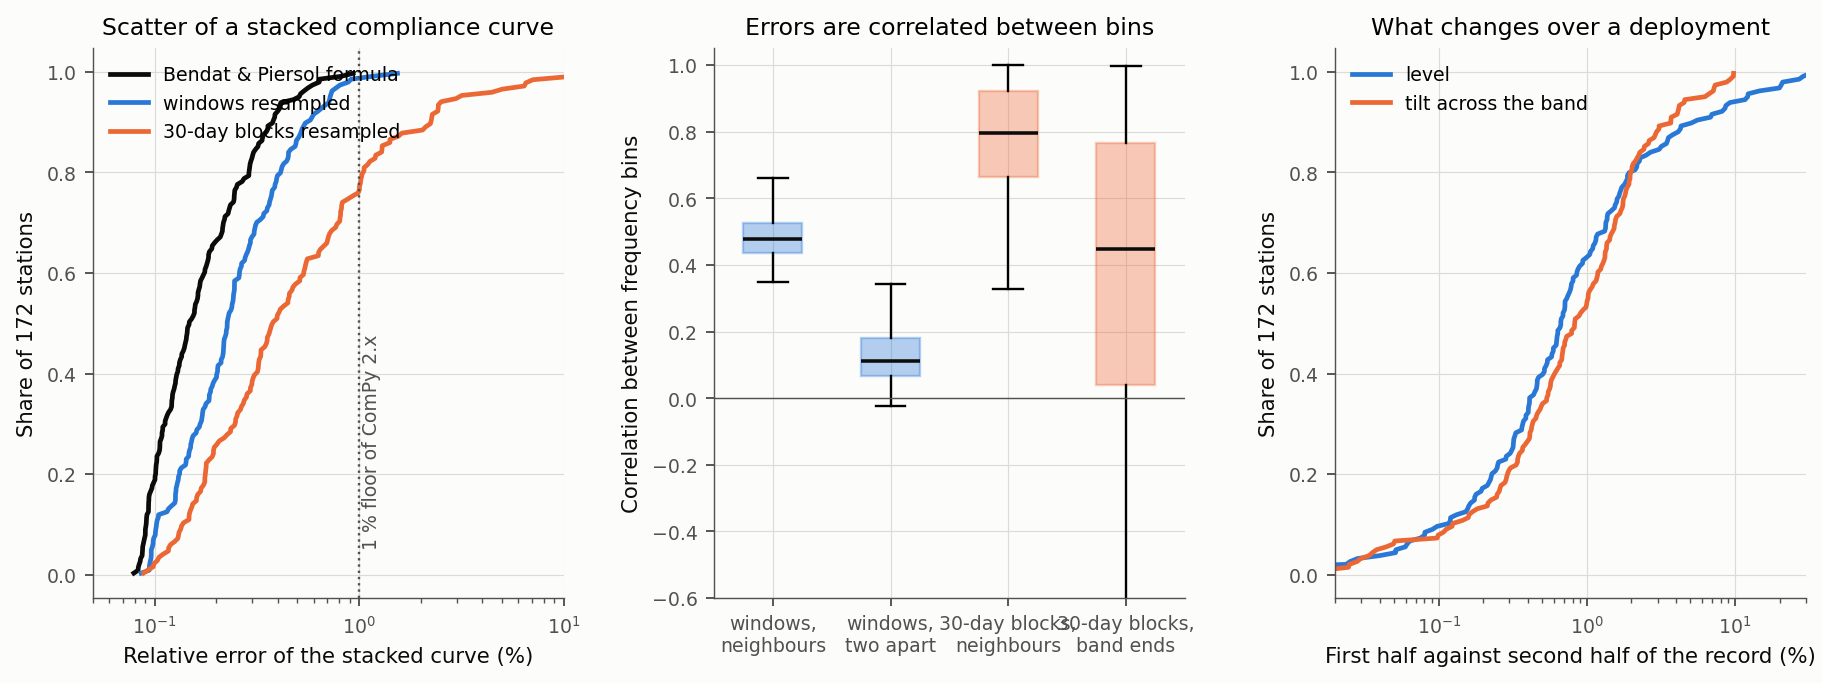
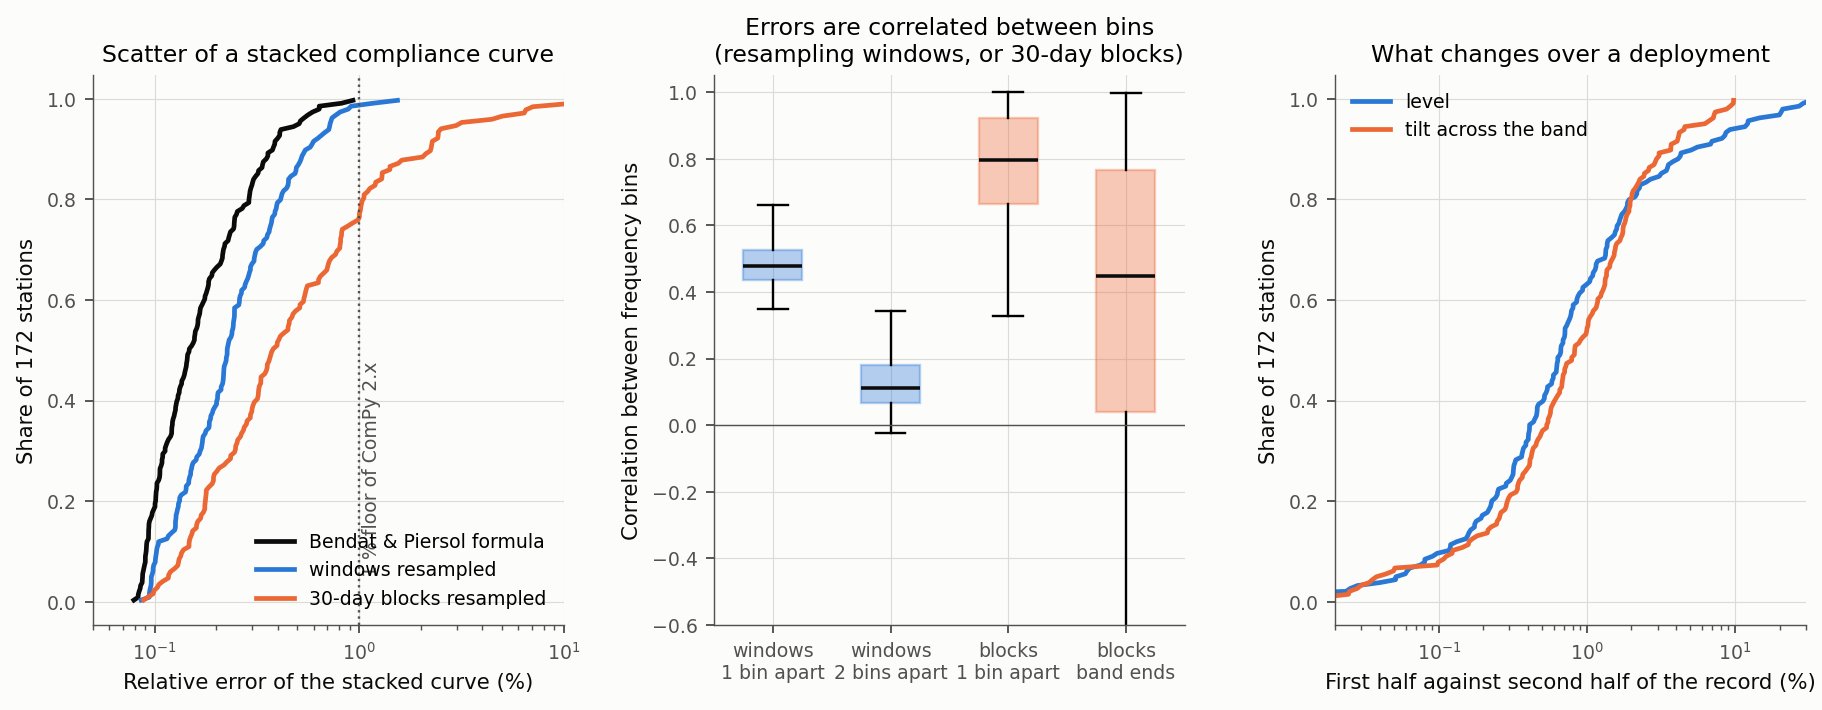
Report draft (sections 1-6), figure fixes

diff --git a/docs/inversion_overhaul_2026-11/scripts/g01_figures_method.py b/docs/inversion_overhaul_2026-11/scripts/g01_figures_method.py
@@ -93,11 +93,11 @@ def fig2():
     ax.text(1.03, 0.05, "1 % floor of ComPy 2.x", rotation=90, color=MUTED, fontsize=8, va="bottom")
     ax.set(xscale="log", xlim=(0.05, 10), xlabel="Relative error of the stacked curve (%)",
            ylabel="Share of 172 stations", title="Scatter of a stacked compliance curve")
-    ax.legend(loc="upper left")
+    ax.legend(loc="lower right")
     ax = axes[1]
     lags = ("iid_corr_adjacent", "iid_corr_lag2", "b30_corr_adjacent", "b30_corr_ends")
-    labels = ("windows,\nneighbours", "windows,\ntwo apart", "30-day blocks,\nneighbours",
-              "30-day blocks,\nband ends")
+    labels = ("windows\n1 bin apart", "windows\n2 bins apart", "blocks\n1 bin apart",
+              "blocks\nband ends")
     data = [col(n) for n in lags]
     parts = ax.boxplot(data, widths=0.5, patch_artist=True, showfliers=False,
                        medianprops=dict(color=INK, lw=1.5))
@@ -105,7 +105,8 @@ def fig2():
         patch.set(facecolor=color, alpha=0.35, edgecolor=color)
     ax.axhline(0, color=MUTED, lw=0.6)
     ax.set_xticks(range(1, 5), labels, fontsize=8)
-    ax.set(ylabel="Correlation between frequency bins", title="Errors are correlated between bins", ylim=(-0.6, 1.05))
+    ax.set(ylabel="Correlation between frequency bins",
+           title="Errors are correlated between bins\n(resampling windows, or 30-day blocks)", ylim=(-0.6, 1.05))
     ax = axes[2]
     for name, label, color in (("half_level", "level", BLUE), ("half_tilt", "tilt across the band", ORANGE)):
         v = np.sort(100 * np.abs(col(name)))
@@ -148,7 +149,7 @@ def fig3():
     x = np.linspace(-30, 30, 300)
     ax.plot(x, len(lr) * 2.5 * np.exp(-0.5 * (x / (5 * np.sqrt(2))) ** 2) / (5 * np.sqrt(2) * np.sqrt(2 * np.pi)),
             color=ORANGE, lw=2, label="two gains with 5 % error each")
-    ax.set(xlabel="Rayleigh-wave gain against microseism gain (%)", ylabel="Stations",
+    ax.set(xlabel="Rayleigh gain against microseism gain (%)", ylabel="Stations",
            title=f"Two calibrations of {len(lr)} gauges")
     ax.legend(loc="upper left")
     fig.savefig(OUT / "fig03_covariance_gain.png", dpi=170, bbox_inches="tight")

diff --git a/docs/inversion_overhaul_2026-11/REPORT.md b/docs/inversion_overhaul_2026-11/REPORT.md
@@ -1,0 +1,122 @@
+# ComPy inversion overhaul, November 2026
+
+Audit and rebuild of the shear-velocity inversion of ComPy, against the primary literature and against tests that do not use any earlier ComPy result. Branch `inversion-overhaul`, proposed as ComPy 3.0.0. Brief: [PROMPT.md](PROMPT.md). Working notes: [NOTES.md](NOTES.md).
+
+Every statement below is marked **[test]** (verified by a script in `scripts/`, output in `~/Desktop/ComPy/14_inversion_overhaul/`), **[source]** (taken from a publication that was read) or **[inferred]**.
+
+## 1. Summary
+
+**What was wrong in the inversion of ComPy 2.3 to 2.8**
+
+1. **The error model.** Each frequency bin carried an independent 1 % error. The real scatter of a stacked compliance curve is 0.2 to 0.4 % and strongly correlated between bins; what is uncertain is the level of the curve (pressure gain) and its slope (pressure response at low frequency). The old model was five times too loose on the shape of the curve, which explains chi-square/N near 0.4, and too strict on its slope, which is what carries the information about the deep crust. [test]
+2. **The prior.** Layers had a flat prior with a penalty on second differences. In the layers the data do not see, that penalty continues the shallow gradient and drives Vs to its bounds. This is the "deep layers press against their limits" of the earlier reports. [test]
+3. **Vp and density.** Compliance measures stiffness, not Vs. One free Vp/Vs for all crustal layers settled near 2.1, which gives lower-crust Vp above 8.5 km/s and, with the density rule tied to Vp, a density of 3.3 g/cc. Both lower Vs: by about 10 % at 2 to 5 km. [test]
+4. **Sediment.** A soft layer much thinner than the wavelength adds compliance through its P modulus, `k h / (rho Vp^2)`, whatever its Vs. The model fixed sediment density at 2.0 g/cc (soft sediment is nearer 1.6) and its Vp, and limited thickness to 1 km. Sediment thickness, and through it deep Vs, inherited those choices. [test]
+5. **Fixed Moho** from a 1-degree model, and **uniform gain bounds** of 5 %, where two independent calibrations of the same gauges differ by more than that in one case out of six. [test]
+6. **Band.** At shelf stations the estimate collapses above the frequency where the pressure signal still reaches the seafloor; the coherence gate does not detect it, and the saved curve was also cut at 40 mHz. Shelf station 7D.J09B never fitted for these reasons. [test]
+
+**What was right.** The forward model (agreement with an independent 50-digit solution to 4e-7), the gravity corrections of the data (re-derived; the 2025 paper states their sign and size wrongly, the code is right), the sampler (acceptance rules read and tested; a ComPy 2.8 run repeats draw for draw), and the H1 estimator. [test]
+
+**What changed.** A new default inversion, `compy.inversion.auto`, with errors measured from each station's own windows, a proper prior about a reference model, free Moho depth, Vp and density uncertain, sediment with its P modulus, a Gaussian gain prior, automatic band limits, sampling that repeats until it converges, and a result that marks the depths the data resolve. One command: `compy-invert`. Method: [../INVERSION.md](../INVERSION.md).
+
+**Is it calibrated?** On synthetic data drawn from the prior, on four station types, the 50 % and 90 % intervals contain the truth at those rates (section 5). When the true Earth is one the model cannot represent, intervals stay honest below 700 m and Vs in the top 300 m follows the reference, not the data; the result flags those depths as unresolved. [test]
+
+**What the data resolve.** At a deep-ocean station: the thickness of soft sediment, and broad averages of Vs between about 0.7 and 6 km. Not the top few hundred metres of basement, not thin layers, and nothing about Vp/Vs or density. [test]
+
+RESULTS_SUMMARY_PLACEHOLDER
+
+## 2. Literature
+
+| Source | Read | What was taken |
+|---|---|---|
+| Crawford (1994), PhD thesis, UCSD | ch. 2 and 6 (ch. 3 and 4 are placeholders in the PDF) | Half-space compliance, eq. 2.19; sensitivity ratios, eqs 2.20 to 2.22; Vp fixed from refraction; start Vs = Vp/1.87; density of Carlson & Raskin (1984), eq. 6.1; Occam inversion; sensitivity near lambda/6 |
+| Crawford (2004), GJI 157 | in full | Definition, eq. 1; `eta = (lambda + 2 mu)/(2 mu (lambda + mu))`, eq. 5; "density has almost no effect"; depth between lambda/2pi and lambda/4; error formula, eq. 8; minimum-structure and Bayesian inversions; full equations of motion always solved |
+| Zha (2014), PhD thesis, Columbia (holds Zha et al. 2014 and Zha & Webb 2016) | ch. 2 and 4 | Gravity correction as Crawford et al. (1998) eq. 6 without an errant 2 pi, sign of its effect; DRAM; sediment 0 to 2000 m with fixed Vs(z) (Ruan) and Vp(z) (Hamilton), density 2.0; crust layers 100 m doubling; Vp/Vs 1.85; density 1.85 + 0.165 Vp; mantle 3.8 to 4.2 km/s; Moho from refraction |
+| Hulme et al. (2003, 2005); Crawford et al. (2002); Crawford (2005) | sections | 2-D effects, as a limit |
+| Mosher et al. (2021), GJI 227 | sections | Another parameterization (Bernstein polynomials, constant Vp and density) |
+| Janiszewski et al. (2019), GJI 217 | one statement | Sediment density 2.0 "following Ruan et al. (2014)" |
+| Tsekhmistrenko et al. (2026), Seismica 5(2) | sections | Instruments of network 8J (for the 8J paper) |
+| Aminian et al. (2025), GJI 242; Aminian (2024) thesis | earlier audits | The method under test |
+
+**Not obtained** (publisher or host refused automated access, or closed): Crawford et al. (1991, 1998); Ruan et al. (2014); Bell et al. (2015); Doran & Laske (2019); Zheng et al. (2024); Brocher (2005), Hamilton (1976, 1979), Carlson & Raskin (1984), Christensen & Shaw (1970) in the original. Consequences: the Ruan sediment relation is not used; Brocher's relations are taken from a published implementation (R package hydrogeo) and marked so in the code; the 1998 gravity formula is taken from Zha's quotation and re-derived (section 3.1). Please check these against the originals.
+
+## 3. Physics checks
+
+### 3.1 Gravity terms of the data
+
+With z up, a pressure p pushes the seafloor down, `u = -xi p`. A seismometer reads specific force, `a = d2u/dt2 - dg`. A wave crest attracts the mass upward, `dg = a_w = (2 pi G / g) cosh(kH) exp(-kH) p`; moving down by |u| raises gravity by the free-air gradient, `dg = (2g/R) u`. Hence `a/p = (omega^2 + 2g/R) xi - a_w/p`, and
+
+`eta = k (omega^2 |Z/P| + a_w/p) / (omega^2 + 2g/R)`,
+
+which is what `compy.compliance.gravity_corrected_compliance` computes. The correction raises compliance, as Zha et al. (2014) say. At YV.RR52 it is 18 % of compliance at 7.3 mHz and 6 % at 17 mHz. The 2025 paper says the attraction "can increase the measured compliance by up to 5 per cent": sign and size are wrong in the text, not in the code. The attraction of the displaced seafloor itself is a fifth of the free-air term, which is 0.3 % at 5 mHz: negligible. [inferred from first principles; formula of a_w from source]
+
+### 3.2 Forward model
+
+A global-matrix solver written for this audit (all layer amplitudes in one linear system, 50-digit arithmetic) agrees with `dram.Forward` to 3.6e-7 and with `impedance` to 2.8e-8 over 60 random models, half of them with slow sediment, under 150 to 5000 m of water. A gradient split into n sublayers converges as 1/n^2 (16 sublayers: 0.3 %). [test: `e01_forward_checks.py`]
+
+### 3.3 What compliance is sensitive to
+
+![Figure 1](figures/fig01_physics.png)
+
+*Figure 1. Left: compliance of an oceanic crust under 3000 m of water without sediment (black) and with 300 m of sediment (blue); the dashed line adds only the uniaxial term k h/(rho Vp^2) to the bare rock; the band is the range when the sediment Vs is halved or doubled. Below 10 mHz the sediment acts through its P modulus alone. Right: change of compliance for a 1 % change of Vs, Vp or density in all layers. Read it as: compliance is about as sensitive to Vp as to Vs.*
+
+- Half-space: `eta = (1 - nu)/mu`. Between Vp/Vs 1.73 and 2.4 the same compliance gives Vs 11 % apart. [source: Crawford 2004 eq. 5; arithmetic]
+- Summed over a normal crust, `d ln eta/d ln Vs` is -0.80 to -0.96, `d ln eta/d ln Vp` -1.02 to -1.17, `d ln eta/d ln rho` -0.99. The published "2 to 9 times more sensitive to Vs" is per m/s. [test]
+- Thin soft layer: 300 m of sediment adds 58 % (4 mHz) to 133 % (10 mHz) to bare-rock compliance; the added part equals `k h/(rho Vp^2)` to 3 % up to 10 mHz; halving the sediment Vs changes compliance by 1 % at 4 mHz and 3 % at 6 mHz. [test, both forward codes and the 50-digit solver]
+- Attenuation: seismic velocities at 5 to 10 Hz exceed those at 10 mHz by `ln(700)/(pi Q)`: 0.4 % for Q = 500, 4 % for Q = 50, 10 % for Q = 20. Compliance Vs of sediment and of cracked upper crust should be read a few per cent below refraction Vs for this reason alone. [inferred: standard constant-Q dispersion, not re-read]
+
+## 4. Errors of a compliance curve
+
+![Figure 2](figures/fig02_errors.png)
+
+*Figure 2. 172 stations of the archive. Left: share of stations whose stacked curve has at most the given relative error, by three measures; the dotted line is the 1 % floor of ComPy 2.x. Middle: correlation of the errors between frequency bins. Right: change of the level and of the tilt of the curve between the two halves of the record.*
+
+| Quantity (172 stations) | Median [10 % to 90 %] |
+|---|---|
+| Bendat & Piersol error | 0.15 % [0.09 to 0.38] |
+| Bootstrap over windows | 0.23 % [0.10 to 0.55]; 1.36 times Bendat & Piersol |
+| Correlation of neighbouring bins; two apart | 0.48; 0.11 |
+| Bootstrap over 30-day blocks | 0.38 % [0.14 to 2.2] |
+| Share of the 30-day covariance that is a level / a tilt | 59 % / 11 % |
+| First half against second half: level; tilt | 0.67 %; 0.83 % |
+| H2/H1 of the stack | 1.09 |
+| Compliance of the loudest fifth of windows over the quietest fifth | 0.985 [0.88 to 1.003] |
+
+[test: `e02_error_model.py`; the restack equals the archive to 1.5e-14]
+
+- **Estimator.** Noise on the pressure channel would make H1 rise with the pressure level. It falls slightly. So coherence is limited by noise on the vertical, H1 is the right estimator, and H2 (9 % higher) is not a useful bracket. The small fall is in the direction of the selection bias of the coherence gate found in the 2.9 audit. [test]
+- **Gain.** The Rayleigh-wave gain and the microseism gain of 73 gauges differ by 2.7 % (robust scatter; 2.0 % for the 36 microseism pairs), with a 16 to 84 % range of -5.4 to +2.6 % and outliers beyond 25 %. A Gaussian prior of 5 % is supported; a hard +-5 % is not. [test]
+- **Slope.** The tide-based correction of the pressure-gauge leak corner (2.9 audit) changes compliance by -3 % (median) at the bottom of the band, -6 % at YV.RR52. The allowance for a slope error is 2 % where that correction is applied, more where the tide and the phase estimate of it disagree, 4 % where no correction exists. This number is a judgement; section 5 shows what happens when it is exceeded. [inferred]
+
+![Figure 3](figures/fig03_covariance_gain.png)
+
+*Figure 3. Left and middle: the errors given to the inversion at YV.RR52 by ComPy 2.8 and by ComPy 3: their size, and their correlation between bins. Right: difference between two independent pressure calibrations; the curve is what two gains with 5 % error each would give.*
+
+## 5. Calibration of the new inversion
+
+Synthetic data sets, 144 per case: a true model is drawn, its compliance computed, noise added with the station's covariance, and the result inverted (`e03_sbc.py`). For 144 cases a correct 50 % interval contains the truth in 42 to 58 % of them and a 90 % interval in 85 to 94 %.
+
+| Case | Parameters within range | Vs at 8 depths, 50 % | Vs, 90 % | Median bias of Vs |
+|---|---|---|---|---|
+| Truth from the prior, YV.RR52 (deep, 9 data) | 15 of 16 | 0.39 to 0.60 | 0.83 to 0.92 | within 1.1 % |
+| Truth from the prior, 7B.NN04 (abyssal, 8 data) | 15 of 16 | 0.45 to 0.54 | 0.85 to 0.91 | within 2.4 % |
+| Truth from the prior, 7K.AN3 (slope, thick sediment, 13 data) | 15 of 17 | 0.46 to 0.55 | 0.88 to 0.94 | within 1.4 % |
+| Truth from the prior, 7D.J09B (shelf, 23 data) | 17 of 18 | 0.42 to 0.55 | 0.90 to 0.94 | within 2.9 % |
+| Smooth-gradient Earth the layers cannot represent, RR52 | n/a | 0.47 to 0.78 below 300 m | 0.94 to 1.00 below 300 m; 0.66 to 0.78 above 300 m | -3 to +2 % below 700 m; +17 to +25 % above 300 m |
+| The same, NN04 | n/a | 0.50 to 0.79 below 300 m | 0.91 to 1.00 below 300 m; 0.72 to 0.83 above 300 m | -5 to +8 % below 700 m; +16 to +26 % above 300 m |
+| Unmodelled slope error of 4 %, RR52 | n/a | 0.37 to 0.59 | 0.82 to 0.92 | +2 % at 3 km, +4 % at 5 km, +7 % at 7 km |
+| Gain error of 10 % (twice the prior), RR52 | n/a | 0.33 to 0.50 | 0.78 to 0.88 | within 1.4 % |
+
+[test; full numbers in `e03_sbc/summary.json`]
+
+Reading:
+
+- With the truth drawn from the prior, coverage is nominal for every parameter type on all four station types. The few rows outside the range (five of 67) are what chance gives.
+- With an Earth of smooth gradients, a depth-dependent Vp/Vs between 1.76 and 2.5 and another density rule, intervals below 700 m are conservative and the median error of Vs is 2 to 9 %. In the top 300 m the truth has a slow layer 2A, the reference does not, and the data cannot tell: Vs there is the reference. These are the depths the result marks as unresolved.
+- A slope error twice the allowance biases Vs below 3 km by 2 to 7 %. This is the main systematic risk of deep Vs.
+
+## 6. The earlier sampler still repeats
+
+Variant `final` of ComPy 2.8 at YV.RR52, run with the ComPy 3 code, gives the archived draws exactly (maximum difference 0.0 over 8 x 5000 x 10 values). The additions to the sampler do not change a 2.x run. [test: `c01_legacy_identity.py`]
+
+ARCHIVE_RESULTS_PLACEHOLDER
